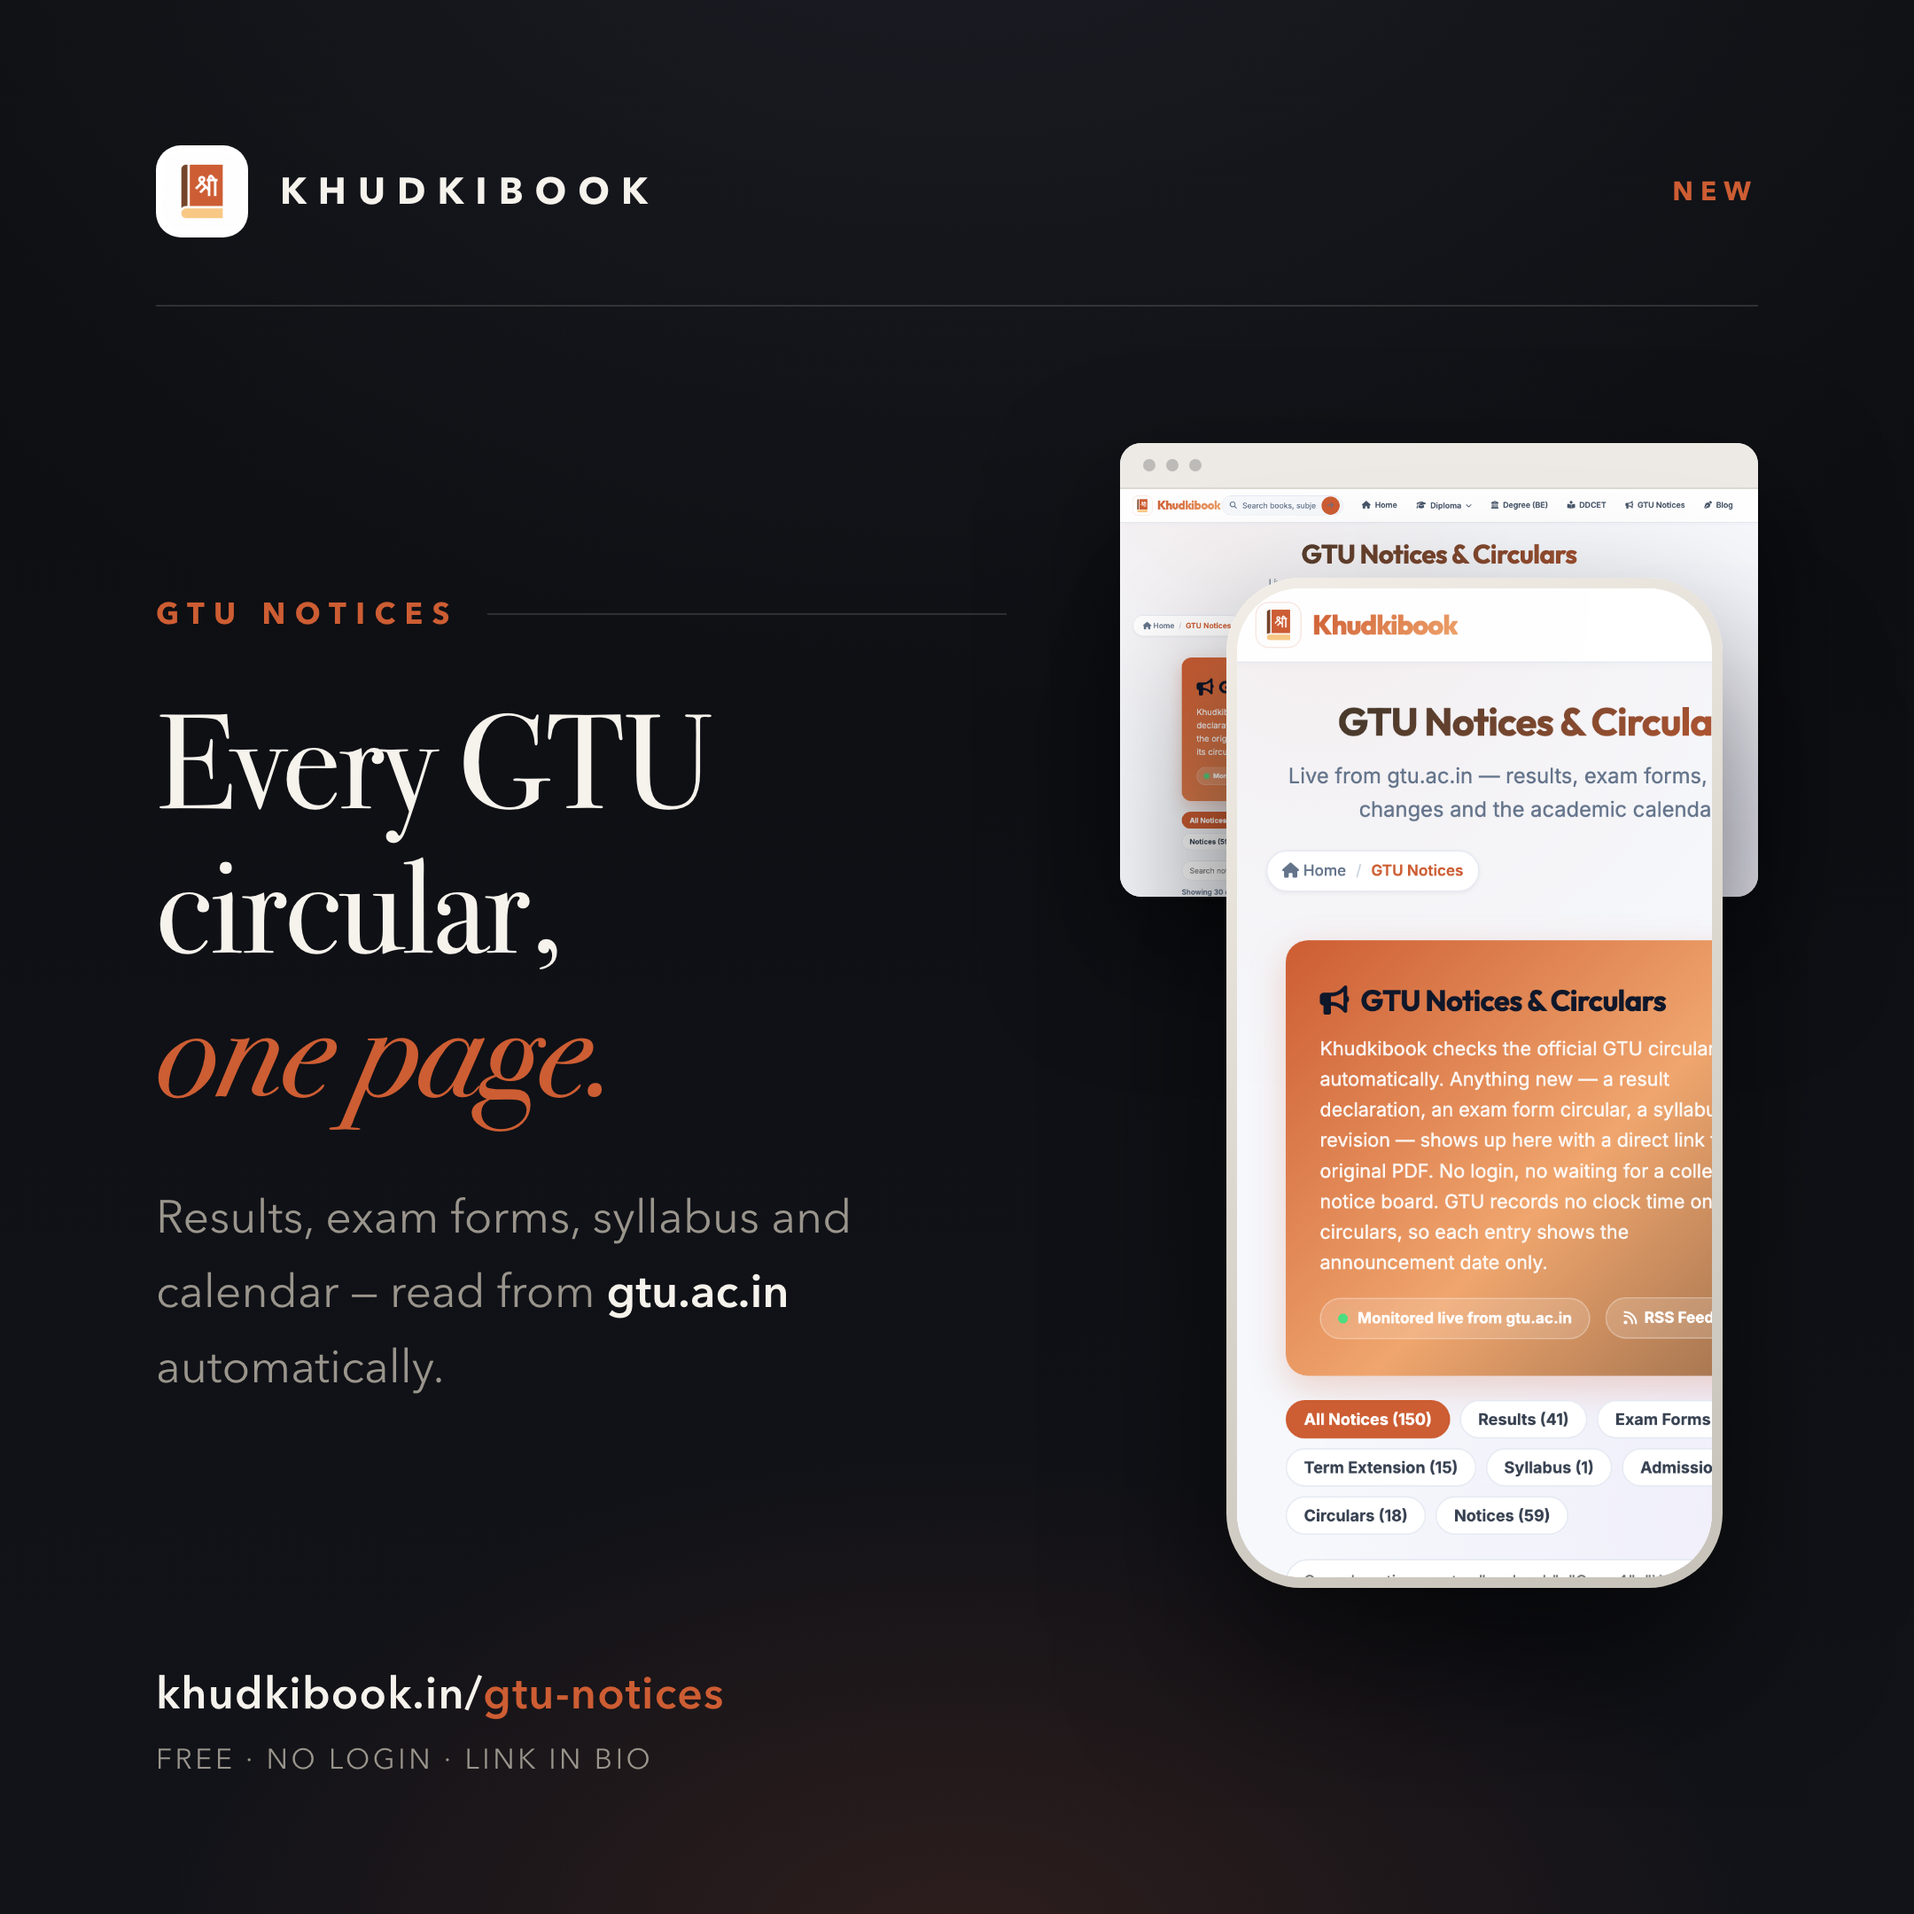
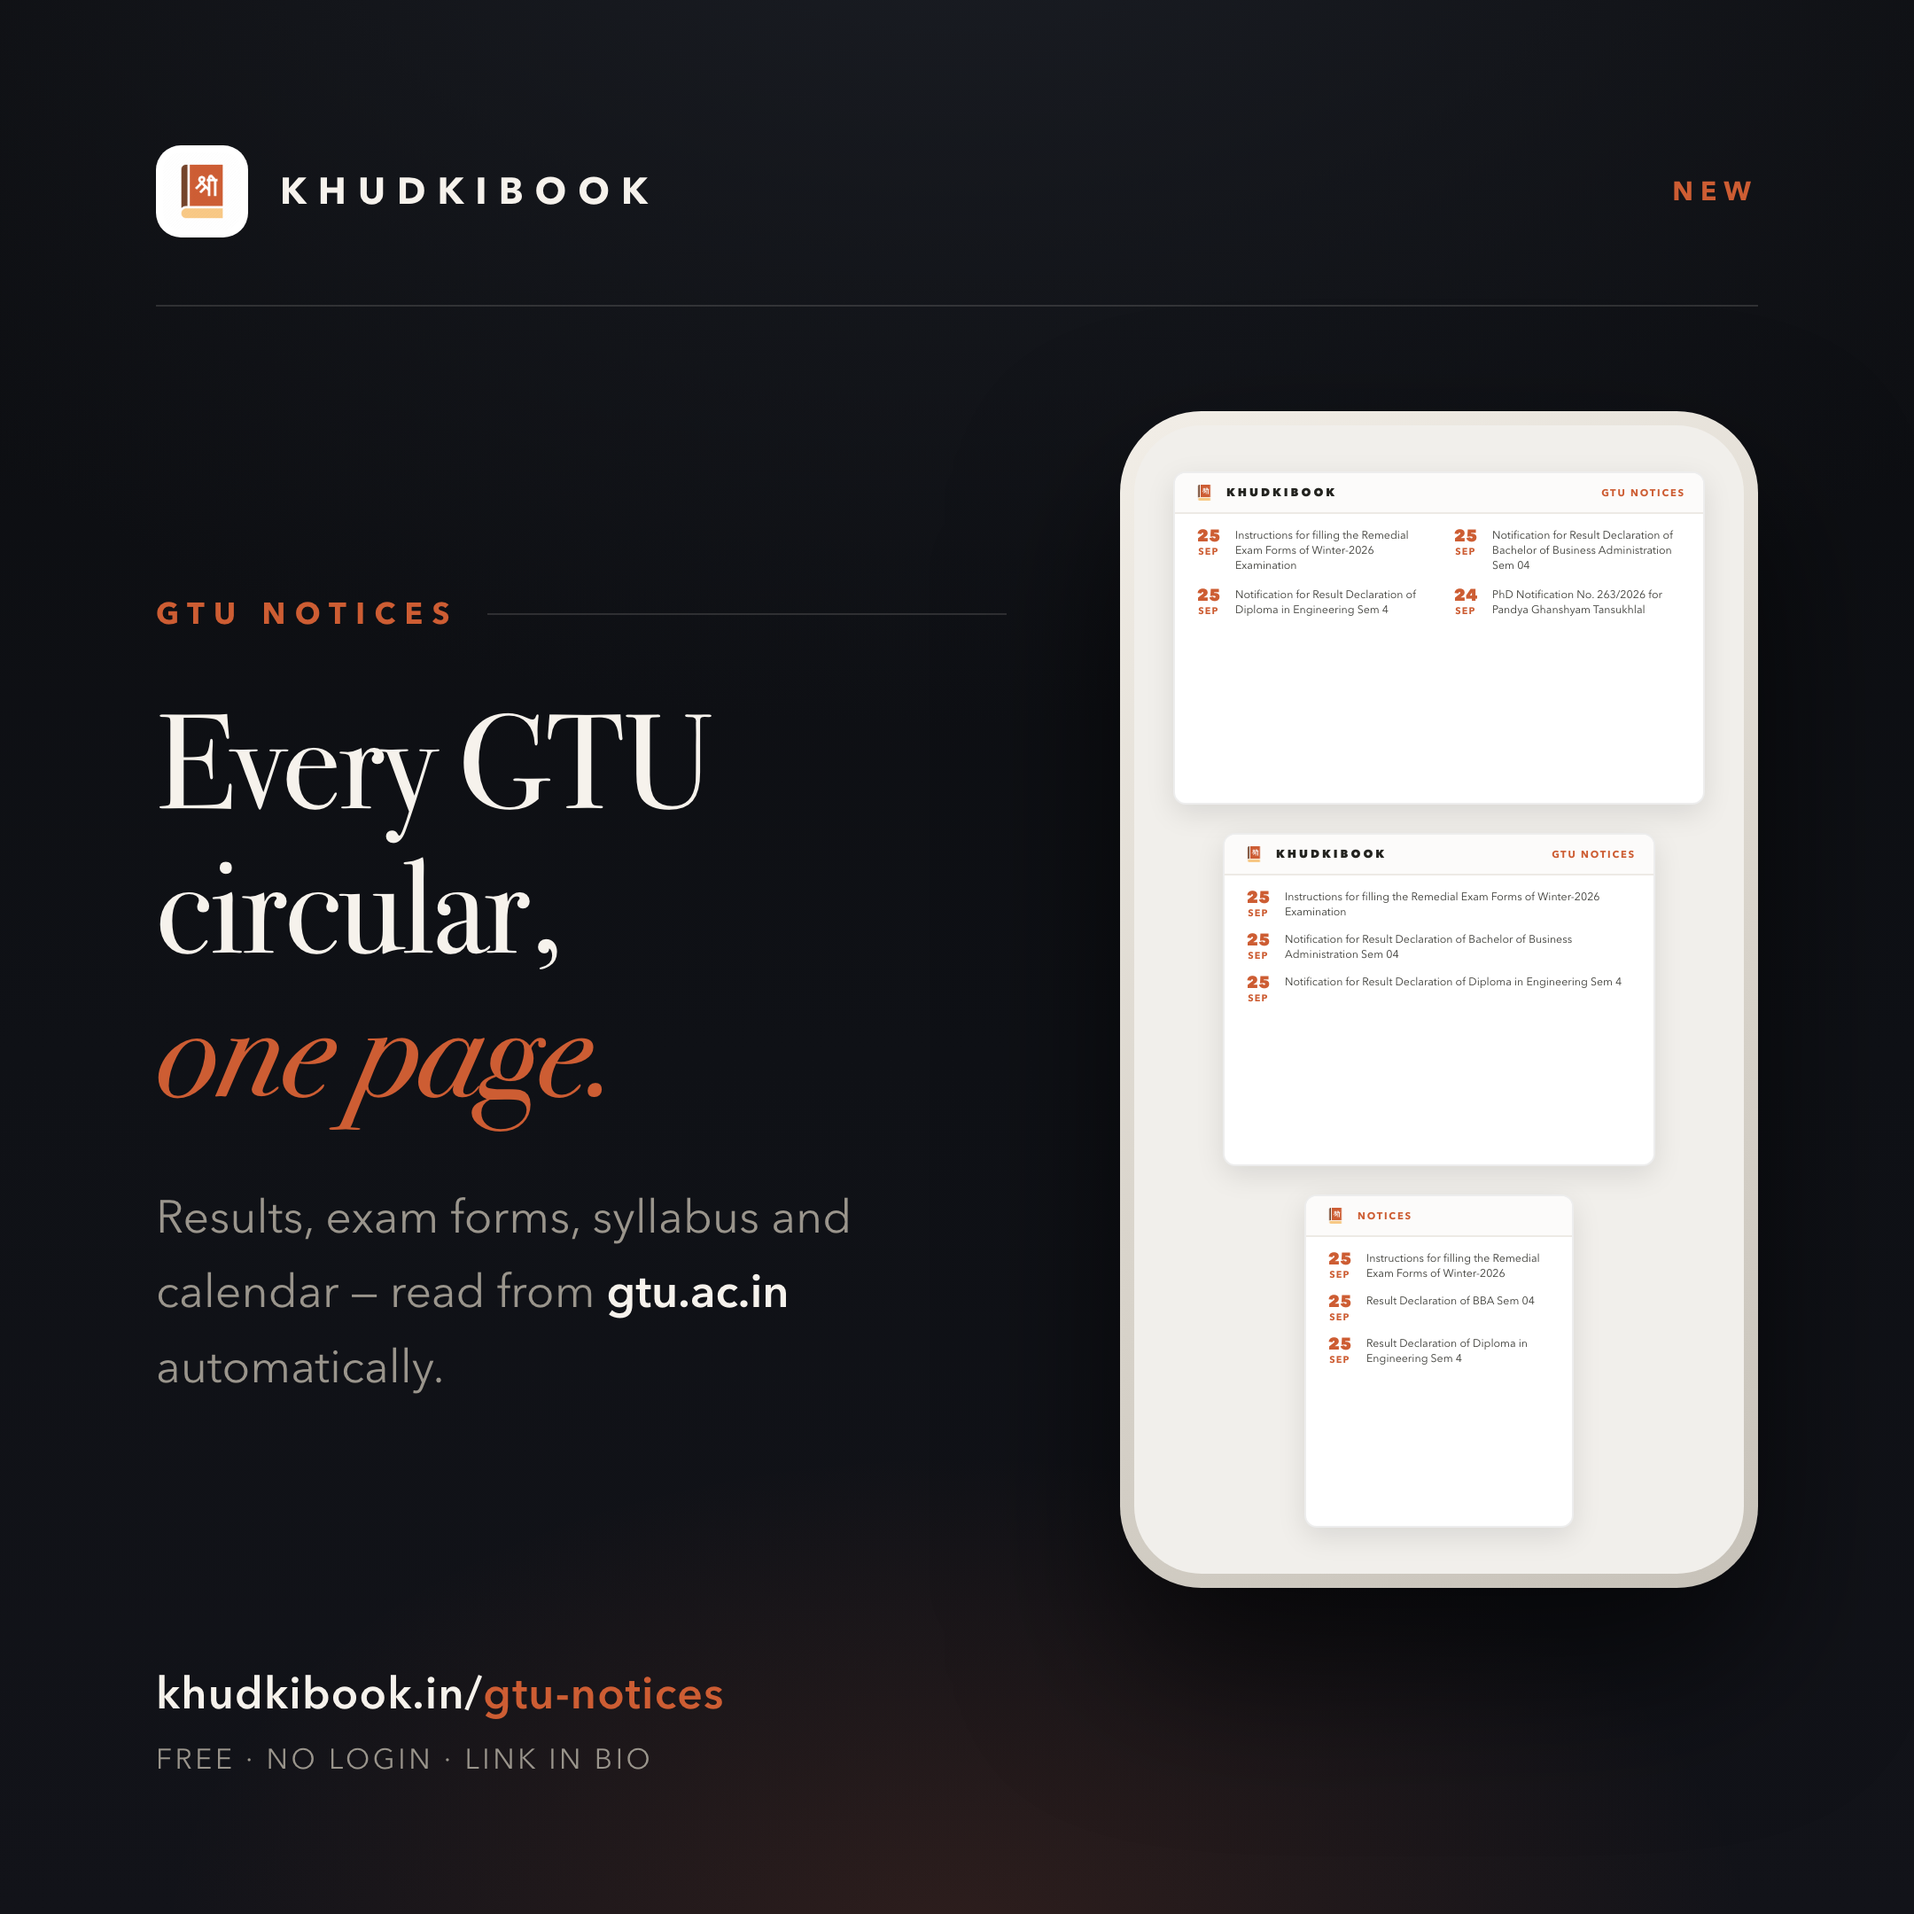
Instagram card: show the notices page at three widths inside the phone

Changed region(s): [[0.5583, 0.2171, 0.9306, 0.8375]]

diff --git a/public/instagram-gtu-notices.html b/public/instagram-gtu-notices.html
@@ -72,30 +72,50 @@
   }
   .standfirst strong { color: var(--paper); font-weight: 600; }
 
-  /* ---------- the same page, two widths ---------- */
-  .cluster { position: relative; flex: 0 0 360px; height: 664px; }
-
-  .browser {
-    position: absolute; top: 18px; left: 0; width: 360px; height: 256px;
-    border-radius: 12px; overflow: hidden; background: #fff;
-    box-shadow: 0 30px 70px rgba(0,0,0,0.55);
-  }
-  .bar {
-    height: 26px; display: flex; align-items: center; gap: 6px; padding: 0 13px;
-    background: #EDEAE5; border-bottom: 1px solid rgba(0,0,0,0.07);
-  }
-  .dot { width: 7px; height: 7px; border-radius: 50%; background: rgba(0,0,0,0.20); }
-  .shot { width: 100%; height: 230px; overflow: hidden; }
-  .shot img { display: block; width: 100%; height: 100%; object-fit: cover; object-position: top center; }
-
+  /* ---------- device, showing the page at three widths ---------- */
   .device {
-    position: absolute; top: 94px; left: 60px; width: 280px; height: 570px;
-    padding: 6px; border-radius: 42px;
+    flex: 0 0 360px; width: 360px; height: 664px;
+    padding: 8px; border-radius: 46px;
     background: linear-gradient(150deg, #F2EEE7 0%, #D9D4CB 55%, #C7C2B9 100%);
     box-shadow: 0 44px 90px rgba(0,0,0,0.62);
   }
-  .screen { width: 100%; height: 100%; border-radius: 36px; overflow: hidden; background: #fff; }
-  .screen img { display: block; width: 100%; height: 100%; object-fit: cover; object-position: top center; }
+  .screen {
+    width: 100%; height: 100%; border-radius: 38px; overflow: hidden;
+    background: #F1EFEB; padding: 26px 0;
+    display: flex; flex-direction: column; align-items: center; gap: 16px;
+  }
+
+  .mini {
+    background: #fff; border-radius: 7px; overflow: hidden;
+    border: 1px solid rgba(0,0,0,0.07);
+    box-shadow: 0 5px 16px rgba(0,0,0,0.10);
+    display: flex; flex-direction: column; flex: 0 0 188px;
+  }
+  .wide  { width: 300px; }
+  .mid   { width: 244px; }
+  .narrow{ width: 152px; }
+
+  .mhead {
+    height: 23px; flex: 0 0 23px;
+    display: flex; align-items: center; gap: 6px; padding: 0 10px;
+    border-bottom: 1px solid #EDEAE5; background: #FCFBFA;
+  }
+  .mhead img { width: 13px; height: 13px; border-radius: 4px; }
+  .mhead b { font-size: 6.4px; font-weight: 800; letter-spacing: 1.5px; color: #23231F; text-transform: uppercase; }
+  .mhead i { margin-left: auto; font-style: normal; font-size: 5.6px; font-weight: 700; letter-spacing: 0.9px; color: var(--accent); text-transform: uppercase; }
+
+  .mbody { flex: 1; padding: 8px 10px; display: grid; gap: 7px; align-content: start; }
+  .wide .mbody { grid-template-columns: 1fr 1fr; gap: 8px 12px; }
+
+  .mrow { display: flex; gap: 6px; align-items: flex-start; }
+  .mwhen { flex: 0 0 18px; text-align: center; }
+  .mday  { font-size: 9.5px; font-weight: 800; color: var(--accent); line-height: 1; }
+  .mmon  { font-size: 5.4px; font-weight: 700; letter-spacing: 0.6px; color: var(--accent); text-transform: uppercase; }
+  .mtext {
+    font-size: 6.2px; line-height: 1.38; color: #3A3A35;
+    display: -webkit-box; -webkit-line-clamp: 3; -webkit-box-orient: vertical; overflow: hidden;
+  }
+  .narrow .mtext { -webkit-line-clamp: 4; }
 
   /* ---------- footer ---------- */
   .footer { position: absolute; left: var(--margin); right: var(--margin); bottom: 76px; }
@@ -127,19 +147,34 @@
         </p>
       </div>
 
-      <div class="cluster">
-        <div class="browser">
-          <div class="bar">
-            <div class="dot"></div><div class="dot"></div><div class="dot"></div>
+      <div class="device">
+        <div class="screen">
+          <div class="mini wide">
+            <div class="mhead"><img src="/assets/brand/khudkibook-logo.png" alt="" /><b>Khudkibook</b><i>GTU Notices</i></div>
+            <div class="mbody">
+              <div class="mrow"><div class="mwhen"><div class="mday">25</div><div class="mmon">Sep</div></div><div class="mtext">Instructions for filling the Remedial Exam Forms of Winter-2026 Examination</div></div>
+              <div class="mrow"><div class="mwhen"><div class="mday">25</div><div class="mmon">Sep</div></div><div class="mtext">Notification for Result Declaration of Bachelor of Business Administration Sem 04</div></div>
+              <div class="mrow"><div class="mwhen"><div class="mday">25</div><div class="mmon">Sep</div></div><div class="mtext">Notification for Result Declaration of Diploma in Engineering Sem 4</div></div>
+              <div class="mrow"><div class="mwhen"><div class="mday">24</div><div class="mmon">Sep</div></div><div class="mtext">PhD Notification No. 263/2026 for Pandya Ghanshyam Tansukhlal</div></div>
+            </div>
           </div>
-          <div class="shot">
-            <img src="/assets/brand/gtu-notices-desktop.png" alt="Desktop view of khudkibook.in/gtu-notices" />
-          </div>
-        </div>
 
-        <div class="device">
-          <div class="screen">
-            <img src="/assets/brand/gtu-notices-mobile.png" alt="Mobile view of khudkibook.in/gtu-notices" />
+          <div class="mini mid">
+            <div class="mhead"><img src="/assets/brand/khudkibook-logo.png" alt="" /><b>Khudkibook</b><i>GTU Notices</i></div>
+            <div class="mbody">
+              <div class="mrow"><div class="mwhen"><div class="mday">25</div><div class="mmon">Sep</div></div><div class="mtext">Instructions for filling the Remedial Exam Forms of Winter-2026 Examination</div></div>
+              <div class="mrow"><div class="mwhen"><div class="mday">25</div><div class="mmon">Sep</div></div><div class="mtext">Notification for Result Declaration of Bachelor of Business Administration Sem 04</div></div>
+              <div class="mrow"><div class="mwhen"><div class="mday">25</div><div class="mmon">Sep</div></div><div class="mtext">Notification for Result Declaration of Diploma in Engineering Sem 4</div></div>
+            </div>
+          </div>
+
+          <div class="mini narrow">
+            <div class="mhead"><img src="/assets/brand/khudkibook-logo.png" alt="" /><i style="margin-left:0">Notices</i></div>
+            <div class="mbody">
+              <div class="mrow"><div class="mwhen"><div class="mday">25</div><div class="mmon">Sep</div></div><div class="mtext">Instructions for filling the Remedial Exam Forms of Winter-2026</div></div>
+              <div class="mrow"><div class="mwhen"><div class="mday">25</div><div class="mmon">Sep</div></div><div class="mtext">Result Declaration of BBA Sem 04</div></div>
+              <div class="mrow"><div class="mwhen"><div class="mday">25</div><div class="mmon">Sep</div></div><div class="mtext">Result Declaration of Diploma in Engineering Sem 4</div></div>
+            </div>
           </div>
         </div>
       </div>
